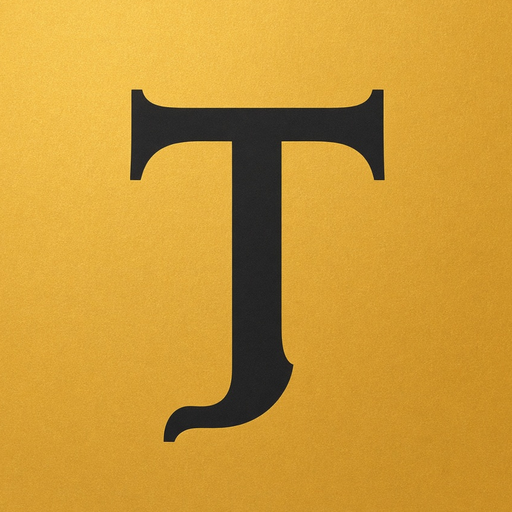
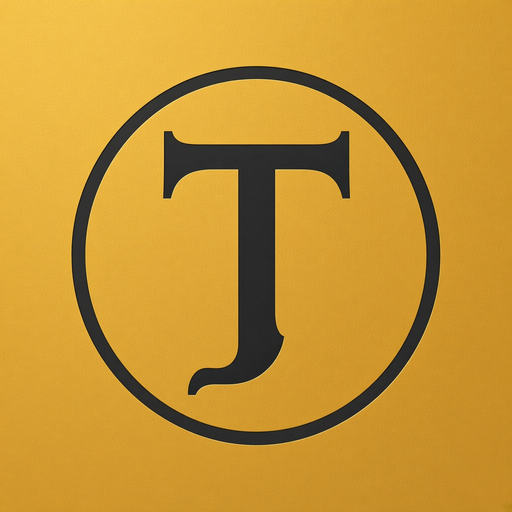
Put a ring around the tau so Brief is not a generic TAO mark
The home-screen tile and X card keep the gold T, now inside a circle, and the header mark matches.

Changed region(s): [[0.125, 0.125, 0.875, 0.875]]

diff --git a/brief/index.html b/brief/index.html
@@ -76,10 +76,11 @@ header {
   display:flex; align-items:center; gap:10px;
 }
 .mark {
-  width:34px; height:34px; border-radius:10px; flex-shrink:0;
+  width:34px; height:34px; border-radius:50%; flex-shrink:0;
   background:var(--gold); color:var(--mark-ink);
   display:grid; place-items:center;
-  font-family:Fraunces, serif; font-weight:700; font-size:22px; line-height:1;
+  font-family:Fraunces, serif; font-weight:700; font-size:18px; line-height:1;
+  box-shadow: inset 0 0 0 2px var(--mark-ink);
 }
 .brand { flex:1; min-width:0; }
 .brand h1 { font-size:15px; font-weight:700; letter-spacing:.04em; }

diff --git a/brief/sw.js b/brief/sw.js
@@ -1,4 +1,4 @@
-const CACHE = 'subnet-brief-v41';
+const CACHE = 'subnet-brief-v42';
 const URLS = [
   './', './index.html', './manifest.json', './chain.js',
   './icon.svg', './icon-192.png', './icon-512.png', './apple-touch-icon.png',
